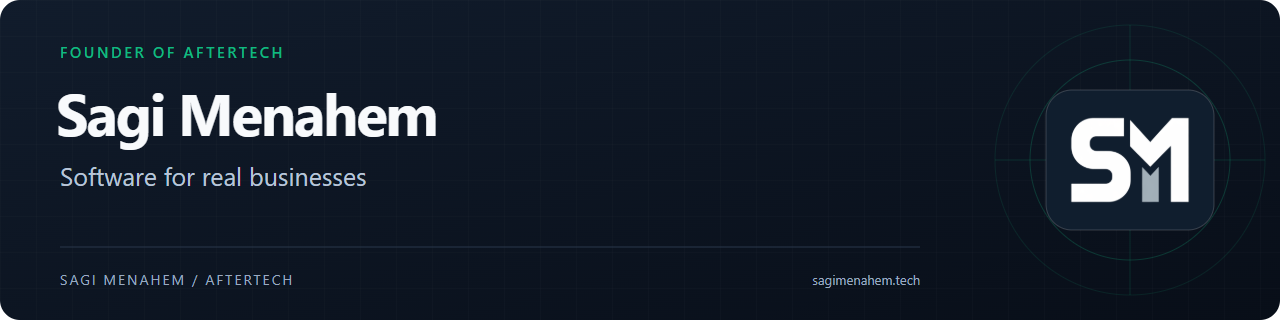
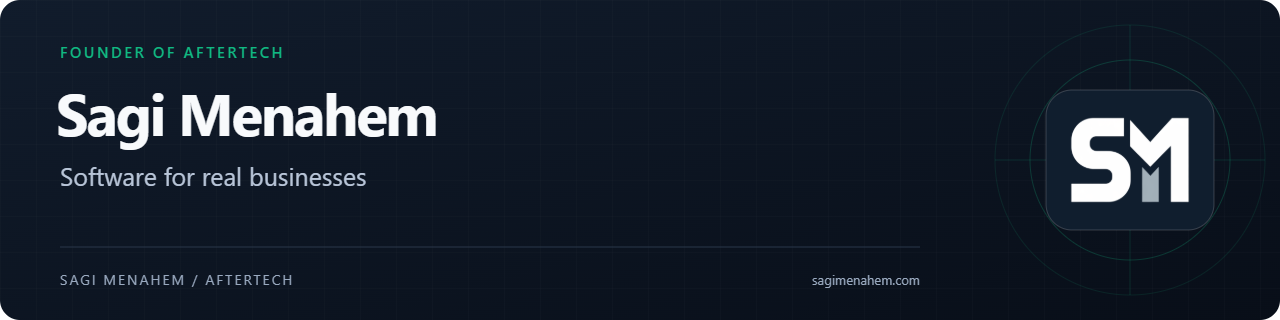
Point personal site links to sagimenahem.com
sagimenahem.tech now redirects to sagimenahem.com and expires on 2026-12-08.

diff --git a/README.md b/README.md
@@ -6,7 +6,7 @@
 
 I build websites and custom software for businesses in Israel through [AfterTech](https://www.after-tech.co.il/). Clients work directly with me, from requirements and architecture to implementation, launch and ongoing maintenance.
 
-[AfterTech](https://www.after-tech.co.il/) · [Personal portfolio](https://www.sagimenahem.tech/) · [LinkedIn](https://www.linkedin.com/in/sagi-menahem/) · [Get in touch](mailto:sagiia1997@gmail.com)
+[AfterTech](https://www.after-tech.co.il/) · [Personal portfolio](https://www.sagimenahem.com/) · [LinkedIn](https://www.linkedin.com/in/sagi-menahem/) · [Get in touch](mailto:sagiia1997@gmail.com)
 
 ## Selected work
 
